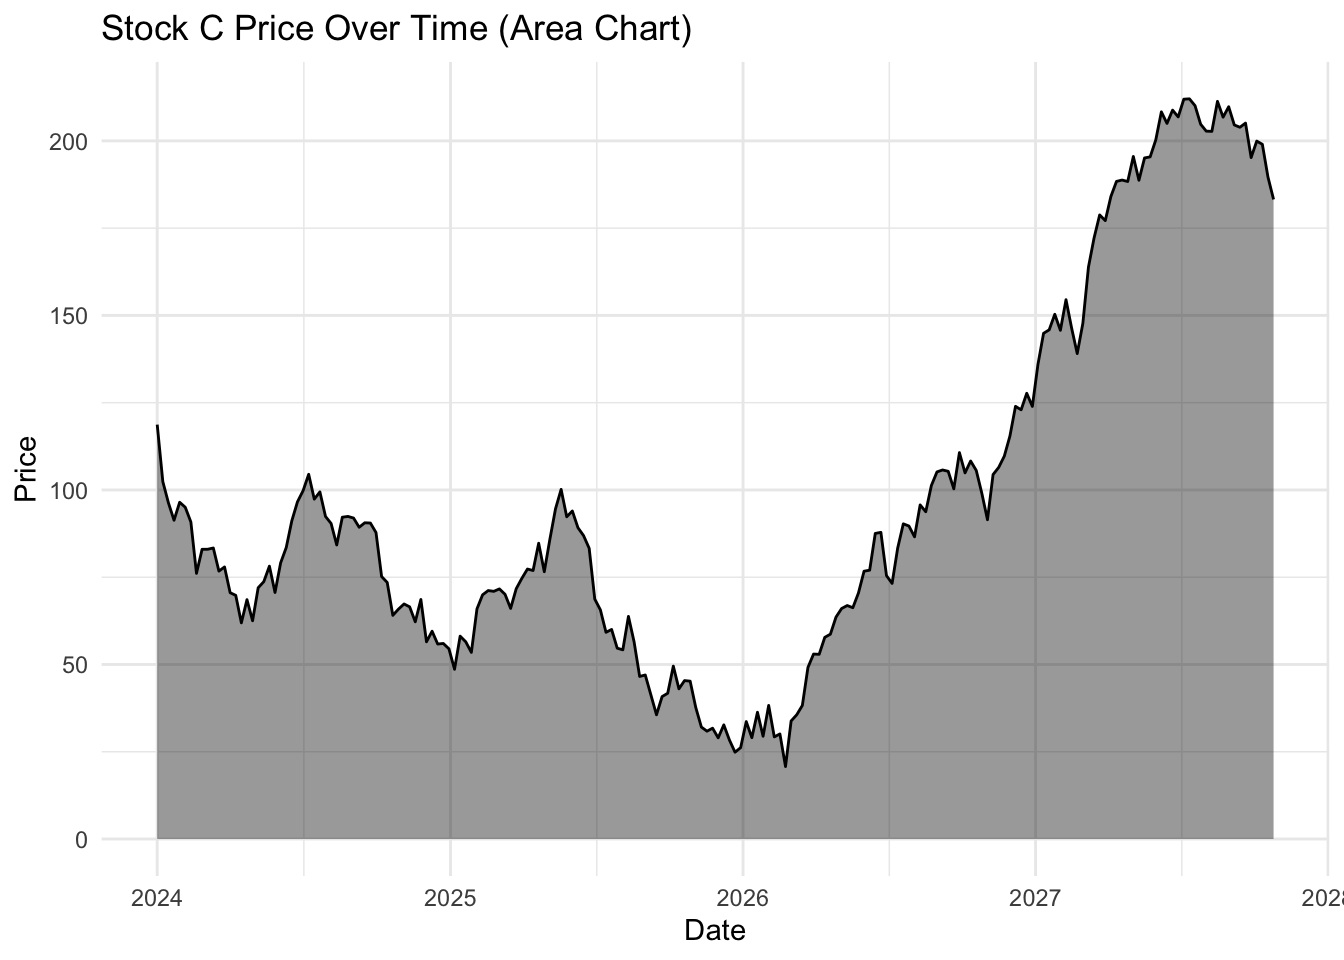
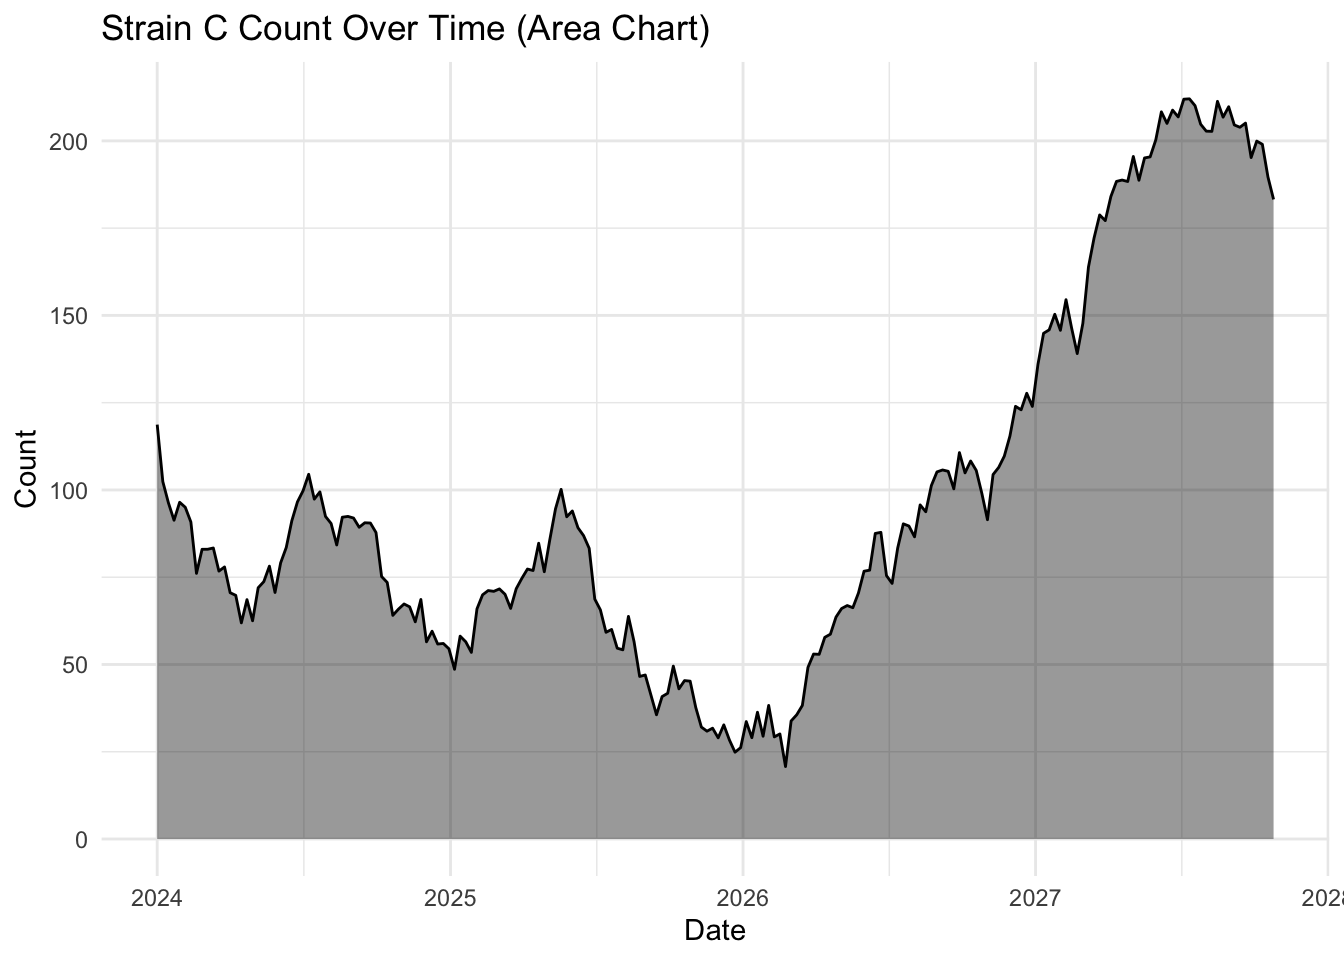
fix #12 stocks to yeast

Changed region(s): [[0.0938, 0.0, 0.5312, 0.0625], [0.0, 0.4375, 0.0312, 0.5312]]

diff --git a/docs/viz_2_exploratoryAnalysis.html b/docs/viz_2_exploratoryAnalysis.html
@@ -234,7 +234,7 @@ pre > code.sourceCode > span > a:first-child::before { text-decoration: underlin
   <li><a href="#visual-interest-with-geom_area" id="toc-visual-interest-with-geom_area" class="nav-link" data-scroll-target="#visual-interest-with-geom_area">Visual interest with geom_area()</a></li>
   <li><a href="#stacked-area-chart" id="toc-stacked-area-chart" class="nav-link" data-scroll-target="#stacked-area-chart">Stacked area chart</a>
   <ul class="collapse">
-  <li><a href="#exercise-4-mins-on-the-dubious-rise-of-our-stocks" id="toc-exercise-4-mins-on-the-dubious-rise-of-our-stocks" class="nav-link" data-scroll-target="#exercise-4-mins-on-the-dubious-rise-of-our-stocks">EXERCISE 🧠🏋♀ (4 mins) On the dubious rise of our stocks…</a></li>
+  <li><a href="#exercise-4-mins-on-the-dubious-rise-of-our-strains" id="toc-exercise-4-mins-on-the-dubious-rise-of-our-strains" class="nav-link" data-scroll-target="#exercise-4-mins-on-the-dubious-rise-of-our-strains">EXERCISE 🧠🏋♀ (4 mins) On the dubious rise of our strains…</a></li>
   </ul></li>
   </ul></li>
   <li><a href="#summary" id="toc-summary" class="nav-link" data-scroll-target="#summary">Summary</a></li>
@@ -670,18 +670,18 @@ Solution
 <div class="cell">
 <div class="sourceCode cell-code" id="cb16"><pre class="sourceCode r code-with-copy"><code class="sourceCode r"><span id="cb16-1"><a href="#cb16-1" aria-hidden="true" tabindex="-1"></a><span class="fu">set.seed</span>(<span class="dv">02</span>) <span class="co"># Please set this seed for this example</span></span>
 <span id="cb16-2"><a href="#cb16-2" aria-hidden="true" tabindex="-1"></a></span>
-<span id="cb16-3"><a href="#cb16-3" aria-hidden="true" tabindex="-1"></a><span class="co"># Create stock price data for three different stocks</span></span>
+<span id="cb16-3"><a href="#cb16-3" aria-hidden="true" tabindex="-1"></a><span class="co"># Create yeast count data for three different strains</span></span>
 <span id="cb16-4"><a href="#cb16-4" aria-hidden="true" tabindex="-1"></a>dates <span class="ot">&lt;-</span> <span class="fu">seq.Date</span>(<span class="at">from =</span> <span class="fu">as.Date</span>(<span class="st">"2024-01-01"</span>), </span>
 <span id="cb16-5"><a href="#cb16-5" aria-hidden="true" tabindex="-1"></a>                  <span class="at">by =</span> <span class="st">"week"</span>, </span>
 <span id="cb16-6"><a href="#cb16-6" aria-hidden="true" tabindex="-1"></a>                  <span class="at">length.out =</span> <span class="dv">200</span>)</span>
 <span id="cb16-7"><a href="#cb16-7" aria-hidden="true" tabindex="-1"></a></span>
-<span id="cb16-8"><a href="#cb16-8" aria-hidden="true" tabindex="-1"></a>stocks <span class="ot">&lt;-</span> <span class="fu">tibble</span>(</span>
+<span id="cb16-8"><a href="#cb16-8" aria-hidden="true" tabindex="-1"></a>strains <span class="ot">&lt;-</span> <span class="fu">tibble</span>(</span>
 <span id="cb16-9"><a href="#cb16-9" aria-hidden="true" tabindex="-1"></a>  <span class="at">date =</span> <span class="fu">rep</span>(dates, <span class="at">times =</span> <span class="dv">3</span>),</span>
-<span id="cb16-10"><a href="#cb16-10" aria-hidden="true" tabindex="-1"></a>  <span class="at">stock =</span> <span class="fu">rep</span>(<span class="fu">c</span>(<span class="st">"Stock A"</span>, <span class="st">"Stock B"</span>, <span class="st">"Stock C"</span>), <span class="at">each =</span> <span class="fu">length</span>(dates)),</span>
-<span id="cb16-11"><a href="#cb16-11" aria-hidden="true" tabindex="-1"></a>  <span class="at">price =</span> <span class="fu">c</span>(</span>
-<span id="cb16-12"><a href="#cb16-12" aria-hidden="true" tabindex="-1"></a>    <span class="dv">100</span> <span class="sc">+</span> <span class="fu">cumsum</span>(<span class="fu">rnorm</span>(<span class="fu">length</span>(dates), <span class="at">mean =</span> <span class="dv">0</span>, <span class="at">sd =</span> <span class="dv">5</span>)),  <span class="co"># Stock A fluctuates around 100</span></span>
-<span id="cb16-13"><a href="#cb16-13" aria-hidden="true" tabindex="-1"></a>    <span class="dv">80</span> <span class="sc">+</span> <span class="fu">cumsum</span>(<span class="fu">rnorm</span>(<span class="fu">length</span>(dates), <span class="at">mean =</span> <span class="dv">0</span>, <span class="at">sd =</span> <span class="dv">4</span>)),   <span class="co"># Stock B fluctuates around 80</span></span>
-<span id="cb16-14"><a href="#cb16-14" aria-hidden="true" tabindex="-1"></a>    <span class="dv">120</span> <span class="sc">+</span> <span class="fu">cumsum</span>(<span class="fu">rnorm</span>(<span class="fu">length</span>(dates), <span class="at">mean =</span> <span class="dv">0</span>, <span class="at">sd =</span> <span class="dv">6</span>))   <span class="co"># Stock C fluctuates around 120</span></span>
+<span id="cb16-10"><a href="#cb16-10" aria-hidden="true" tabindex="-1"></a>  <span class="at">strain =</span> <span class="fu">rep</span>(<span class="fu">c</span>(<span class="st">"Strain A"</span>, <span class="st">"Strain B"</span>, <span class="st">"Strain C"</span>), <span class="at">each =</span> <span class="fu">length</span>(dates)),</span>
+<span id="cb16-11"><a href="#cb16-11" aria-hidden="true" tabindex="-1"></a>  <span class="at">count =</span> <span class="fu">c</span>(</span>
+<span id="cb16-12"><a href="#cb16-12" aria-hidden="true" tabindex="-1"></a>    <span class="dv">100</span> <span class="sc">+</span> <span class="fu">cumsum</span>(<span class="fu">rnorm</span>(<span class="fu">length</span>(dates), <span class="at">mean =</span> <span class="dv">0</span>, <span class="at">sd =</span> <span class="dv">5</span>)),  <span class="co"># Strain A fluctuates around 100</span></span>
+<span id="cb16-13"><a href="#cb16-13" aria-hidden="true" tabindex="-1"></a>    <span class="dv">80</span> <span class="sc">+</span> <span class="fu">cumsum</span>(<span class="fu">rnorm</span>(<span class="fu">length</span>(dates), <span class="at">mean =</span> <span class="dv">0</span>, <span class="at">sd =</span> <span class="dv">4</span>)),   <span class="co"># Strain B fluctuates around 80</span></span>
+<span id="cb16-14"><a href="#cb16-14" aria-hidden="true" tabindex="-1"></a>    <span class="dv">120</span> <span class="sc">+</span> <span class="fu">cumsum</span>(<span class="fu">rnorm</span>(<span class="fu">length</span>(dates), <span class="at">mean =</span> <span class="dv">0</span>, <span class="at">sd =</span> <span class="dv">6</span>))   <span class="co"># Strain C fluctuates around 120</span></span>
 <span id="cb16-15"><a href="#cb16-15" aria-hidden="true" tabindex="-1"></a>  )</span>
 <span id="cb16-16"><a href="#cb16-16" aria-hidden="true" tabindex="-1"></a>)</span></code><button title="Copy to Clipboard" class="code-copy-button"><i class="bi"></i></button></pre></div>
 </div>
@@ -706,13 +706,13 @@ What is set.seed?
 <h3 class="anchored" data-anchor-id="line-chart-with-geom_line">Line chart with geom_line()</h3>
 <p>The simplest plot for change over time is <code>geom_line()</code>. The connected scatterplot is almost the same plot, but each observation is represented by a point.</p>
 <div class="cell">
-<div class="sourceCode cell-code" id="cb17"><pre class="sourceCode r code-with-copy"><code class="sourceCode r"><span id="cb17-1"><a href="#cb17-1" aria-hidden="true" tabindex="-1"></a><span class="fu">ggplot</span>(stocks <span class="sc">%&gt;%</span> <span class="fu">filter</span>(stock <span class="sc">==</span> <span class="st">"Stock C"</span>), </span>
+<div class="sourceCode cell-code" id="cb17"><pre class="sourceCode r code-with-copy"><code class="sourceCode r"><span id="cb17-1"><a href="#cb17-1" aria-hidden="true" tabindex="-1"></a><span class="fu">ggplot</span>(strains <span class="sc">%&gt;%</span> <span class="fu">filter</span>(strain <span class="sc">==</span> <span class="st">"Strain C"</span>), </span>
 <span id="cb17-2"><a href="#cb17-2" aria-hidden="true" tabindex="-1"></a>        <span class="fu">aes</span>(<span class="at">x =</span> date, </span>
-<span id="cb17-3"><a href="#cb17-3" aria-hidden="true" tabindex="-1"></a>            <span class="at">y =</span> price)) <span class="sc">+</span></span>
+<span id="cb17-3"><a href="#cb17-3" aria-hidden="true" tabindex="-1"></a>            <span class="at">y =</span> count)) <span class="sc">+</span></span>
 <span id="cb17-4"><a href="#cb17-4" aria-hidden="true" tabindex="-1"></a>  <span class="fu">geom_line</span>() <span class="sc">+</span></span>
-<span id="cb17-5"><a href="#cb17-5" aria-hidden="true" tabindex="-1"></a>  <span class="fu">labs</span>(<span class="at">title =</span> <span class="st">"Stock C Price Over Time"</span>, </span>
+<span id="cb17-5"><a href="#cb17-5" aria-hidden="true" tabindex="-1"></a>  <span class="fu">labs</span>(<span class="at">title =</span> <span class="st">"Strain C Count Over Time"</span>, </span>
 <span id="cb17-6"><a href="#cb17-6" aria-hidden="true" tabindex="-1"></a>        <span class="at">x =</span> <span class="st">"Date"</span>, </span>
-<span id="cb17-7"><a href="#cb17-7" aria-hidden="true" tabindex="-1"></a>        <span class="at">y =</span> <span class="st">"Price"</span>) <span class="sc">+</span></span>
+<span id="cb17-7"><a href="#cb17-7" aria-hidden="true" tabindex="-1"></a>        <span class="at">y =</span> <span class="st">"Count"</span>) <span class="sc">+</span></span>
 <span id="cb17-8"><a href="#cb17-8" aria-hidden="true" tabindex="-1"></a>  <span class="fu">theme_minimal</span>()</span></code><button title="Copy to Clipboard" class="code-copy-button"><i class="bi"></i></button></pre></div>
 <div class="cell-output-display">
 <div>
@@ -727,15 +727,15 @@ What is set.seed?
 <h3 class="anchored" data-anchor-id="visual-interest-with-geom_area">Visual interest with geom_area()</h3>
 <p>The <code>geom_area()</code> function uses the same principal but also includes a filled or shaded area below the line. This is the same data, but due to the shading makes the whole plot look less empty.</p>
 <div class="cell">
-<div class="sourceCode cell-code" id="cb18"><pre class="sourceCode r code-with-copy"><code class="sourceCode r"><span id="cb18-1"><a href="#cb18-1" aria-hidden="true" tabindex="-1"></a><span class="fu">ggplot</span>(stocks <span class="sc">%&gt;%</span> <span class="fu">filter</span>(stock <span class="sc">==</span> <span class="st">"Stock B"</span>), </span>
-<span id="cb18-2"><a href="#cb18-2" aria-hidden="true" tabindex="-1"></a>        <span class="fu">aes</span>(<span class="at">x =</span> date, <span class="at">y =</span> price)) <span class="sc">+</span></span>
+<div class="sourceCode cell-code" id="cb18"><pre class="sourceCode r code-with-copy"><code class="sourceCode r"><span id="cb18-1"><a href="#cb18-1" aria-hidden="true" tabindex="-1"></a><span class="fu">ggplot</span>(strains <span class="sc">%&gt;%</span> <span class="fu">filter</span>(strain <span class="sc">==</span> <span class="st">"Strain B"</span>), </span>
+<span id="cb18-2"><a href="#cb18-2" aria-hidden="true" tabindex="-1"></a>        <span class="fu">aes</span>(<span class="at">x =</span> date, <span class="at">y =</span> count)) <span class="sc">+</span></span>
 <span id="cb18-3"><a href="#cb18-3" aria-hidden="true" tabindex="-1"></a>  <span class="fu">geom_area</span>(<span class="at">fill =</span> <span class="st">"black"</span>, </span>
 <span id="cb18-4"><a href="#cb18-4" aria-hidden="true" tabindex="-1"></a>            <span class="at">alpha =</span> <span class="fl">0.4</span>) <span class="sc">+</span></span>
 <span id="cb18-5"><a href="#cb18-5" aria-hidden="true" tabindex="-1"></a>  <span class="fu">geom_line</span>(<span class="at">color =</span> <span class="st">"black"</span>, </span>
 <span id="cb18-6"><a href="#cb18-6" aria-hidden="true" tabindex="-1"></a>            <span class="at">linewidth =</span> <span class="fl">0.5</span>) <span class="sc">+</span>  <span class="co"># Keeps the line for clarity</span></span>
-<span id="cb18-7"><a href="#cb18-7" aria-hidden="true" tabindex="-1"></a>  <span class="fu">labs</span>(<span class="at">title =</span> <span class="st">"Stock B Price Over Time (Area Chart)"</span>, </span>
+<span id="cb18-7"><a href="#cb18-7" aria-hidden="true" tabindex="-1"></a>  <span class="fu">labs</span>(<span class="at">title =</span> <span class="st">"Strain B Count Over Time (Area Chart)"</span>, </span>
 <span id="cb18-8"><a href="#cb18-8" aria-hidden="true" tabindex="-1"></a>        <span class="at">x =</span> <span class="st">"Date"</span>, </span>
-<span id="cb18-9"><a href="#cb18-9" aria-hidden="true" tabindex="-1"></a>        <span class="at">y =</span> <span class="st">"Price"</span>) <span class="sc">+</span></span>
+<span id="cb18-9"><a href="#cb18-9" aria-hidden="true" tabindex="-1"></a>        <span class="at">y =</span> <span class="st">"Count"</span>) <span class="sc">+</span></span>
 <span id="cb18-10"><a href="#cb18-10" aria-hidden="true" tabindex="-1"></a>  <span class="fu">theme_minimal</span>()</span></code><button title="Copy to Clipboard" class="code-copy-button"><i class="bi"></i></button></pre></div>
 <div class="cell-output-display">
 <div>
@@ -758,16 +758,16 @@ What is set.seed?
 </div>
 <p><br>
 </p>
-<p>Let’s create a stacked area charts of our stocks:</p>
+<p>Let’s create a stacked area charts of our strains:</p>
 <div class="cell">
-<div class="sourceCode cell-code" id="cb19"><pre class="sourceCode r code-with-copy"><code class="sourceCode r"><span id="cb19-1"><a href="#cb19-1" aria-hidden="true" tabindex="-1"></a><span class="fu">ggplot</span>(stocks, <span class="fu">aes</span>(<span class="at">x =</span> date, </span>
-<span id="cb19-2"><a href="#cb19-2" aria-hidden="true" tabindex="-1"></a>                    <span class="at">y =</span> price, </span>
-<span id="cb19-3"><a href="#cb19-3" aria-hidden="true" tabindex="-1"></a>                    <span class="at">fill =</span> stock)) <span class="sc">+</span></span>
+<div class="sourceCode cell-code" id="cb19"><pre class="sourceCode r code-with-copy"><code class="sourceCode r"><span id="cb19-1"><a href="#cb19-1" aria-hidden="true" tabindex="-1"></a><span class="fu">ggplot</span>(strains, <span class="fu">aes</span>(<span class="at">x =</span> date, </span>
+<span id="cb19-2"><a href="#cb19-2" aria-hidden="true" tabindex="-1"></a>                    <span class="at">y =</span> count, </span>
+<span id="cb19-3"><a href="#cb19-3" aria-hidden="true" tabindex="-1"></a>                    <span class="at">fill =</span> strain)) <span class="sc">+</span></span>
 <span id="cb19-4"><a href="#cb19-4" aria-hidden="true" tabindex="-1"></a>  <span class="fu">geom_area</span>(<span class="at">alpha =</span> <span class="fl">0.6</span>) <span class="sc">+</span>  <span class="co"># Fill areas with transparency</span></span>
-<span id="cb19-5"><a href="#cb19-5" aria-hidden="true" tabindex="-1"></a>  <span class="fu">labs</span>(<span class="at">title =</span> <span class="st">"Stacked Area Chart of Stock Prices Over Time"</span>,</span>
+<span id="cb19-5"><a href="#cb19-5" aria-hidden="true" tabindex="-1"></a>  <span class="fu">labs</span>(<span class="at">title =</span> <span class="st">"Stacked Area Chart of Strain Counts Over Time"</span>,</span>
 <span id="cb19-6"><a href="#cb19-6" aria-hidden="true" tabindex="-1"></a>       <span class="at">x =</span> <span class="st">"Date"</span>, </span>
-<span id="cb19-7"><a href="#cb19-7" aria-hidden="true" tabindex="-1"></a>       <span class="at">y =</span> <span class="st">"Price"</span>, </span>
-<span id="cb19-8"><a href="#cb19-8" aria-hidden="true" tabindex="-1"></a>       <span class="at">fill =</span> <span class="st">"Stock"</span>) <span class="sc">+</span></span>
+<span id="cb19-7"><a href="#cb19-7" aria-hidden="true" tabindex="-1"></a>       <span class="at">y =</span> <span class="st">"Count"</span>, </span>
+<span id="cb19-8"><a href="#cb19-8" aria-hidden="true" tabindex="-1"></a>       <span class="at">fill =</span> <span class="st">"Strain"</span>) <span class="sc">+</span></span>
 <span id="cb19-9"><a href="#cb19-9" aria-hidden="true" tabindex="-1"></a>  <span class="fu">theme_minimal</span>()</span></code><button title="Copy to Clipboard" class="code-copy-button"><i class="bi"></i></button></pre></div>
 <div class="cell-output-display">
 <div>
@@ -777,11 +777,11 @@ What is set.seed?
 </div>
 </div>
 </div>
-<section id="exercise-4-mins-on-the-dubious-rise-of-our-stocks" class="level4">
-<h4 class="anchored" data-anchor-id="exercise-4-mins-on-the-dubious-rise-of-our-stocks">EXERCISE 🧠🏋♀ (4 mins) On the dubious rise of our stocks…</h4>
+<section id="exercise-4-mins-on-the-dubious-rise-of-our-strains" class="level4">
+<h4 class="anchored" data-anchor-id="exercise-4-mins-on-the-dubious-rise-of-our-strains">EXERCISE 🧠🏋♀ (4 mins) On the dubious rise of our strains…</h4>
 <p><strong>…and the flaw with stacked area charts</strong></p>
-<p>Looking at the stacked area plot you would be forgiven for thinking all three stocks have increased over time. Because stacked area plots can be misleading, they are not always recommended as a type of visualisation.</p>
-<p>Investigate more closely each stock price, by changing one stock at a time <code>filter(stock == "Stock A")</code> (and updating the figure title of course) and plotting the area and line chart. What do you notice about the fluctuation over time for each stock? Is this visualised well in our stacked area chart (where <code>fill = stock</code>)?</p>
+<p>Looking at the stacked area plot you would be forgiven for thinking all three strains have increased over time. Because stacked area plots can be misleading, they are not always recommended as a type of visualisation.</p>
+<p>Investigate more closely each strain count, by changing one strain at a time <code>filter(strain== "Strain A")</code> (and updating the figure title of course) and plotting the area and line chart. What do you notice about the fluctuation over time for each strain? Is this visualised well in our stacked area chart (where <code>fill = strain</code>)?</p>
 <div class="callout callout-style-default callout-tip callout-titled">
 <div class="callout-header d-flex align-content-center" data-bs-toggle="collapse" data-bs-target=".callout-8-contents" aria-controls="callout-8" aria-expanded="false" aria-label="Toggle callout">
 <div class="callout-icon-container">
@@ -817,8 +817,8 @@ Solution
 </div>
 </div>
 </div>
-<p>What you will notice that Stock A has not increased in value and is almost exactly where it started! But in our stacked area chart, it appears that every stock goes up. You should only use a stacked area chart when you are interested in the total value of all variables together, and not the individual values of each variable (<em>e.g.,</em> parts of a whole, percentages summing to 100%).</p>
-<p>An alternative to stacked area plots is the use of facet, which will allow us to visualise multiple stocks at once by creating individual panels (<em>e.g.,</em> try add <code>+ facet_grid(stock ~ .)</code> to the stacked area code block earlier. Swapping the tilde, dot and stock order <code>(~ . stock)</code> rearranges the layout to vertical instead of horizontal).</p>
+<p>What you will notice that Strain A has not increased in count and is almost exactly where it started! But in our stacked area chart, it appears that every strain goes up. You should only use a stacked area chart when you are interested in the total value of all variables together, and not the individual values of each variable (<em>e.g.,</em> parts of a whole, percentages summing to 100%).</p>
+<p>An alternative to stacked area plots is the use of facet, which will allow us to visualise multiple strains at once by creating individual panels (<em>e.g.,</em> try add <code>+ facet_grid(strain ~ .)</code> to the stacked area code block earlier. Swapping the tilde, dot and stock order <code>(~ . strain)</code> rearranges the layout to vertical instead of horizontal).</p>
 </div>
 </div>
 </div>
